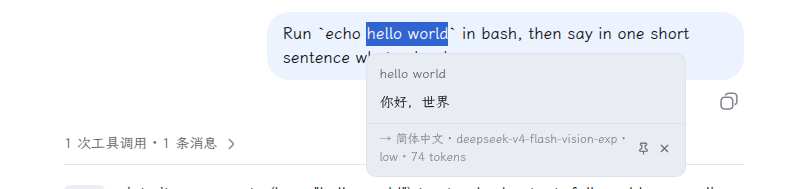
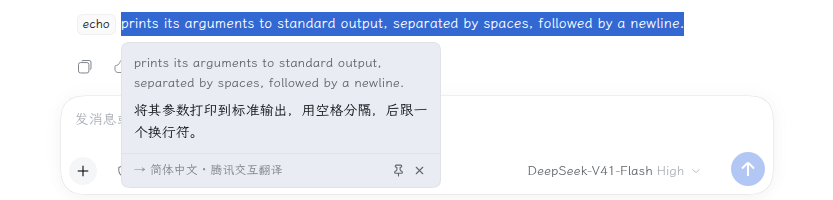
fix: regenerate the conversation screenshots, and write the fixture down
Three bugs surfaced only by pointing the tool at a live instance:

- It measured element rects before scrolling them into view, so the crop was
  computed against a scrolled container (the prompt read y:-166, the column
  y:-182) and landed on the session header rather than the message. Each crop
  now scrolls its target to the middle first and re-reads the column rect
  afterwards, since scrolling moves the container too.
- The crop was narrower than the column, which sliced the right edge off the
  translation card and its close button. The card is clamped to the window, not
  to the column, so the crop now uses the full column width.
- en-zh selected "hello world" out of the Chinese prompt. The highlight landed
  inside a code chip in a Chinese sentence and read as neither direction; it now
  selects the English reply, so the shot is an English passage with its Chinese
  translation underneath.

The fixture is now stated instead of implied. The header documents the two
prompts that reproduce the 截图专用 session and the phrases the crops pick out of
it live in FIXTURE constants — the previously hardcoded Chinese phrase existed
in no session at all, which is how this rotted silently once the session was
lost. Fixture strings must be runs inside a single text node: "echo" renders in
its own code chip, so the English one starts after it.

All four screenshots regenerated, so they now share the 文楷 typeface the tool
actually applies.

diff --git a/scripts/regenerate-screenshots.js b/scripts/regenerate-screenshots.js
@@ -4,6 +4,18 @@
 // session literally named 「截图专用」 in the instance it is pointed at, so that
 // no real conversation ever ends up in the README.
 //
+// The fixture session is reproducible: start a new session in a scratch
+// workspace, send these two prompts, then rename it to 截图专用 (right-click is
+// not it — the row's ⋯ button appears on hover and offers 重命名):
+//
+//   1. 用 echo 命令演示一下：运行 echo hello world，然后用中文简单解释 echo 是做什么的。
+//   2. Now explain in one short English sentence what the echo command does with its arguments.
+//
+// The PHRASES selected below are taken from that exchange. If you reword the
+// prompts, update them too — the script fails loudly when it cannot find one
+// (「en reply not found」, 「zh phrase not found」), it does not silently produce
+// a wrong crop.
+//
 // Prerequisites, the same as tests/client.smoke.mjs:
 //   npm i -D playwright && npx playwright install chromium
 //   a running DSH instance carrying the plugin
@@ -47,6 +59,25 @@ const FONT_FAMILY = 'LXGW WenKai'
 const FONT_CACHE = join(ROOT, '.fonts-cache')
 const OUT = join(ROOT, 'screenshots')
 const WIDTH = 815
+
+/**
+ * The exact strings the fixture session is expected to contain.
+ *
+ * `enReply` is the whole English sentence, because the point of the en→zh
+ * screenshot is to show an English passage selected with its Chinese
+ * translation beneath it — selecting an English token out of the Chinese
+ * prompt instead reads as neither direction. `zhReply` is the matching Chinese
+ * sentence for the reverse shot.
+ *
+ * These have to be runs that live inside a SINGLE text node: selection works by
+ * finding one node containing the string. `echo` is rendered in its own code
+ * chip, so the sentence below deliberately starts after it.
+ */
+const FIXTURE = {
+  enShort: 'prints its arguments',
+  enReply: 'prints its arguments to standard output, separated by spaces, followed by a newline.',
+  zhReply: '把传给它的参数原样打印到标准输出',
+}
 
 /**
  * The `FONTCONFIG_FILE` env chromium should get, or nothing when there is no
@@ -112,14 +143,54 @@ async function main() {
   await page.getByText('截图专用', { exact: true }).first().click()
   await page.waitForTimeout(4000)
 
-  const conv = await page.evaluate(() => {
+  /** The conversation column's CURRENT viewport rect. Re-measured per crop. */
+  const convRect = () => page.evaluate(() => {
     const el = document.querySelector('.SLC67a_scroll')
     if (!el) return null
     const r = el.getBoundingClientRect()
     return { x: r.x, y: r.y, width: r.width, height: r.height }
   })
-  if (!conv) { console.error('no conversation container'); await browser.close(); process.exit(1) }
-  console.log('conv:', JSON.stringify(conv))
+  if (!(await convRect())) { console.error('no conversation container'); await browser.close(); process.exit(1) }
+
+  /**
+   * Bring the flow item containing `text` into view, and let the scroll settle.
+   *
+   * Measuring without this yields rects measured against a scrolled container —
+   * seen here as `y: -166` for the prompt and `conv.y: -182` — so the crop lands
+   * on the session header instead of the message. Note that scrolling also moves
+   * the container itself, which is why the rect is re-read for every crop
+   * rather than captured once at the start.
+   */
+  const scrollTo = async (text) => {
+    const found = await page.evaluate((t) => {
+      const conv = document.querySelector('.SLC67a_scroll')
+      if (!conv) return false
+      const w = document.createTreeWalker(conv, NodeFilter.SHOW_TEXT)
+      let n
+      while ((n = w.nextNode())) {
+        if ((n.textContent || '').includes(t)) {
+          const item = n.parentElement.closest('.SLC67a_flowItem')
+          if (item) { item.scrollIntoView({ block: 'center' }); return true }
+        }
+      }
+      return false
+    }, text)
+    if (found) await page.waitForTimeout(1000)
+    return found
+  }
+
+  /**
+   * One crop region: the full conversation column, from `top` down to `bottom`.
+   *
+   * The width is the whole column rather than a narrower slice because the
+   * translation card is clamped to the window, not to this column — a narrower
+   * crop slices its right edge and the close button off.
+   */
+  const crop = async (top, bottom) => {
+    const c = await convRect()
+    const y = Math.max(0, top)
+    return { x: Math.max(0, c.x), y, width: c.width, height: Math.max(0, bottom - y) }
+  }
 
   const selectText = (text, n) => page.evaluate(([t, len]) => {
     const w = document.createTreeWalker(document.querySelector('.SLC67a_scroll'), NodeFilter.SHOW_TEXT)
@@ -157,17 +228,35 @@ async function main() {
     return false
   }
 
+  /** Poll until the card settles into a result or a visible error. */
+  const waitCard = async (maxMs = 45000) => {
+    const deadline = Date.now() + maxMs
+    while (Date.now() < deadline) {
+      const state = await page.evaluate(() => {
+        const card = document.querySelector('[data-dsh-translator-card]')
+        if (!card) return 'gone'
+        if (card.querySelector('[data-dsh-translator-meta]')) return 'done'
+        if (card.querySelector('[data-dsh-translator-error]')) return 'error'
+        return 'loading'
+      })
+      if (state === 'done' || state === 'error') return state
+      await page.waitForTimeout(500)
+    }
+    return 'loading'
+  }
+
   // ── 1. select-button.png ────────────────────────────────────────────────
   // Short sessions show the conversation header (workspace chip + created
-  // date) above the messages — the earlier crop picked it up as a black
-  // block. Crop from the selected reply itself: button above, reply below.
-  if (!(await selectText('prints its arguments', 20))) { console.error('en reply not found'); await browser.close(); process.exit(1) }
+  // date) above the messages. Scroll the reply to the middle first, then crop
+  // from the reply itself: button above, reply below.
+  if (!(await scrollTo(FIXTURE.enShort))) { console.error('en reply not found'); await browser.close(); process.exit(1) }
+  if (!(await selectText(FIXTURE.enShort, 20))) { console.error('en reply not found'); await browser.close(); process.exit(1) }
   if (await waitButton()) {
-    const reply = await itemRectOf('prints its arguments')
+    const reply = await itemRectOf(FIXTURE.enShort)
     const btn = await page.evaluate(() => { const b = document.querySelector('[data-dsh-translator-btn]'); return b ? b.getBoundingClientRect().toJSON() : null })
     if (reply) {
       const top = Math.min(reply.y, btn ? btn.y : reply.y) - 12
-      const clip = { x: Math.max(0, conv.x + 12), y: Math.max(0, top), width: Math.min(WIDTH, conv.width - 24), height: reply.y + reply.height - top + 12 }
+      const clip = await crop(top, reply.y + reply.height + 12)
       await page.screenshot({ path: join(OUT, 'select-button.png'), clip })
       console.log('saved select-button.png', JSON.stringify(clip))
     }
@@ -175,16 +264,17 @@ async function main() {
 
   // ── 2. en-zh.png ────────────────────────────────────────────────────────
   await page.keyboard.press('Escape'); await page.waitForTimeout(300)
-  if (!(await selectText('hello world', 11))) { console.error('prompt not found'); await browser.close(); process.exit(1) }
+  if (!(await scrollTo(FIXTURE.enReply))) { console.error('en reply not found'); await browser.close(); process.exit(1) }
+  if (!(await selectText(FIXTURE.enReply, FIXTURE.enReply.length))) { console.error('en reply not found'); await browser.close(); process.exit(1) }
   if (await waitButton()) {
     await page.evaluate(() => { document.querySelector('[data-dsh-translator-btn]')?.click() })
-    await page.waitForTimeout(45000)
-    const bubble = await itemRectOf('hello world')
-    const echo = await itemRectOf('echo prints its arguments')
+    const settled = await waitCard()
+    if (settled !== 'done') console.error('en-zh: card did not settle on a result:', settled)
+    const bubble = await itemRectOf(FIXTURE.enReply)
     const card = await page.evaluate(() => document.querySelector('[data-dsh-translator-card]')?.getBoundingClientRect().toJSON() || null)
-    const bottom = Math.max(echo ? (echo.y + echo.height) : 0, card ? card.bottom : 0)
+    const bottom = Math.max(bubble ? (bubble.y + bubble.height) : 0, card ? card.bottom : 0)
     if (bubble) {
-      const clip = { x: Math.max(0, conv.x + 12), y: Math.max(0, bubble.y - 12), width: Math.min(WIDTH, conv.width - 24), height: bottom - bubble.y + 24 }
+      const clip = await crop(bubble.y - 12, bottom + 12)
       await page.screenshot({ path: join(OUT, 'en-zh.png'), clip })
       console.log('saved en-zh.png', JSON.stringify(clip))
     }
@@ -192,16 +282,18 @@ async function main() {
 
   // ── 3. zh-en.png ────────────────────────────────────────────────────────
   await page.keyboard.press('Escape'); await page.waitForTimeout(300)
-  if (!(await selectText('把跟在它后面的内容原样打印到屏幕（标准输出）上', 26))) { console.error('zh phrase not found'); await browser.close(); process.exit(1) }
+  if (!(await scrollTo(FIXTURE.zhReply))) { console.error('zh phrase not found'); await browser.close(); process.exit(1) }
+  if (!(await selectText(FIXTURE.zhReply, FIXTURE.zhReply.length))) { console.error('zh phrase not found'); await browser.close(); process.exit(1) }
   if (await waitButton()) {
     await page.evaluate(() => { document.querySelector('[data-dsh-translator-btn]')?.click() })
-    await page.waitForTimeout(45000)
+    const settled = await waitCard()
+    if (settled !== 'done') console.error('zh-en: card did not settle on a result:', settled)
     const sel = await page.evaluate(() => { const s = window.getSelection(); const n = s && s.anchorNode; const item = n && n.parentElement && n.parentElement.closest('.SLC67a_flowItem'); return item ? item.getBoundingClientRect().toJSON() : null })
     const next = await page.evaluate(() => { const s = window.getSelection(); const n = s && s.anchorNode; const item = n && n.parentElement && n.parentElement.closest('.SLC67a_flowItem'); const nx = item && item.nextElementSibling; return nx ? nx.getBoundingClientRect().toJSON() : null })
     const card = await page.evaluate(() => document.querySelector('[data-dsh-translator-card]')?.getBoundingClientRect().toJSON() || null)
     if (sel) {
       const bottom = Math.max(next ? (next.y + next.height) : 0, card ? card.bottom : 0)
-      const clip = { x: Math.max(0, conv.x + 12), y: Math.max(0, sel.y - 12), width: Math.min(WIDTH, conv.width - 24), height: bottom - sel.y + 24 }
+      const clip = await crop(sel.y - 12, bottom + 12)
       await page.screenshot({ path: join(OUT, 'zh-en.png'), clip })
       console.log('saved zh-en.png', JSON.stringify(clip))
     }

diff --git a/README.md b/README.md
@@ -14,7 +14,14 @@ Two engines, switchable in the plugin's settings:
 
 ## Install
 
-On the DSH **Plugins** page, click **Add plugin** and enter `@nicearrack/dsh-translator`. To remove it later, uninstall it from that same page.
+On the DSH **Plugins** page, click **Add plugin** and give either the npm package name or the GitHub address:
+
+```
+@nicearrack/dsh-translator
+https://github.com/nicearrack/dsh-translator
+```
+
+To remove it later, uninstall it from that same page.
 
 ## Usage
 

diff --git a/README.zh.md b/README.zh.md
@@ -14,7 +14,14 @@
 
 ## 安装
 
-在 DSH 的**插件**页点「添加插件」，填入 `@nicearrack/dsh-translator` 即可。以后要移除，在同一个页面卸载。
+在 DSH 的**插件**页点「添加插件」，npm 包名或 GitHub 地址都可以：
+
+```
+@nicearrack/dsh-translator
+https://github.com/nicearrack/dsh-translator
+```
+
+以后要移除，在同一个页面卸载。
 
 ## 使用
 
